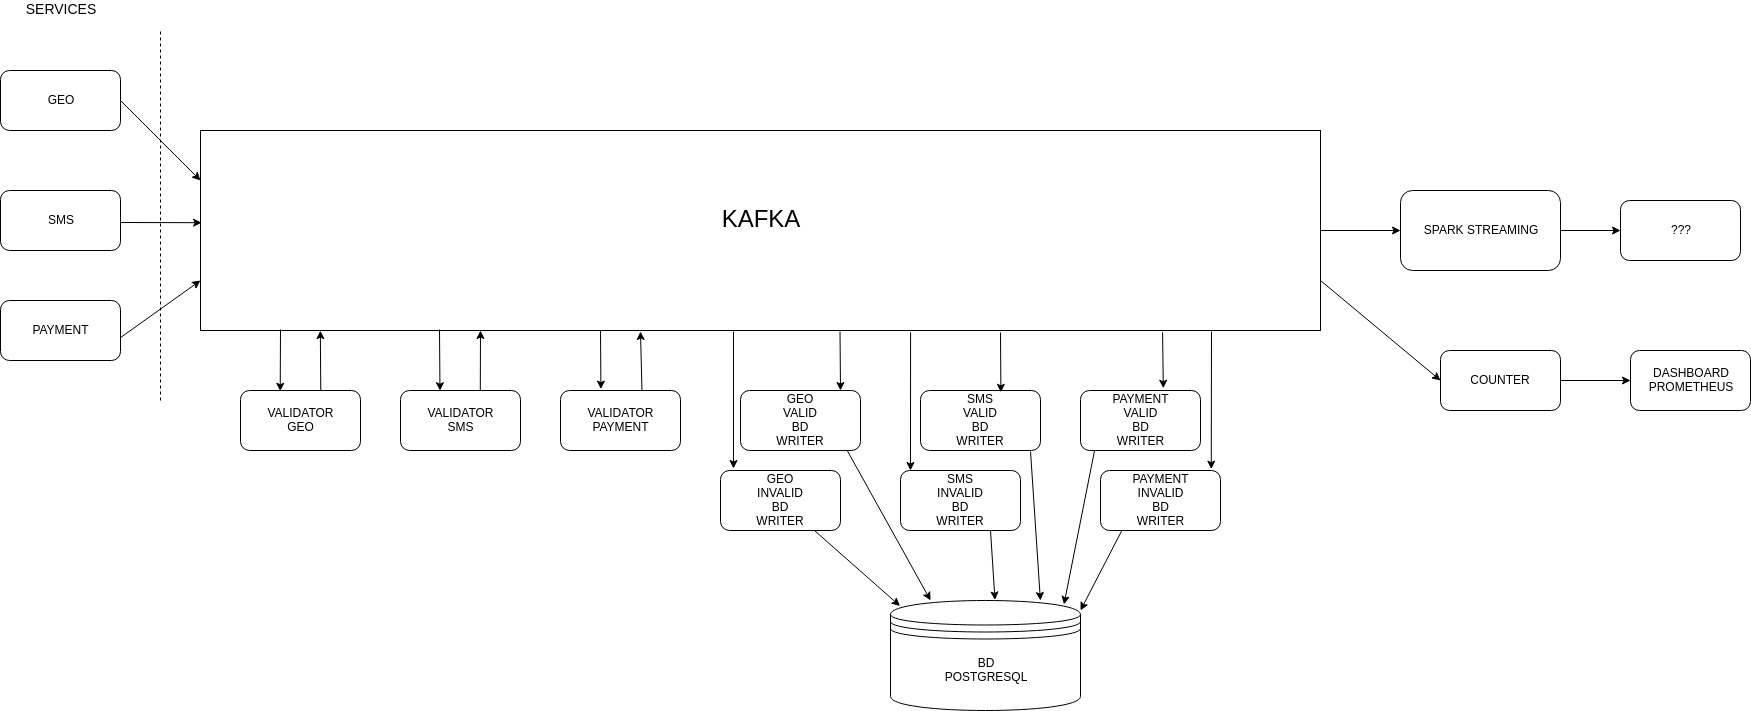
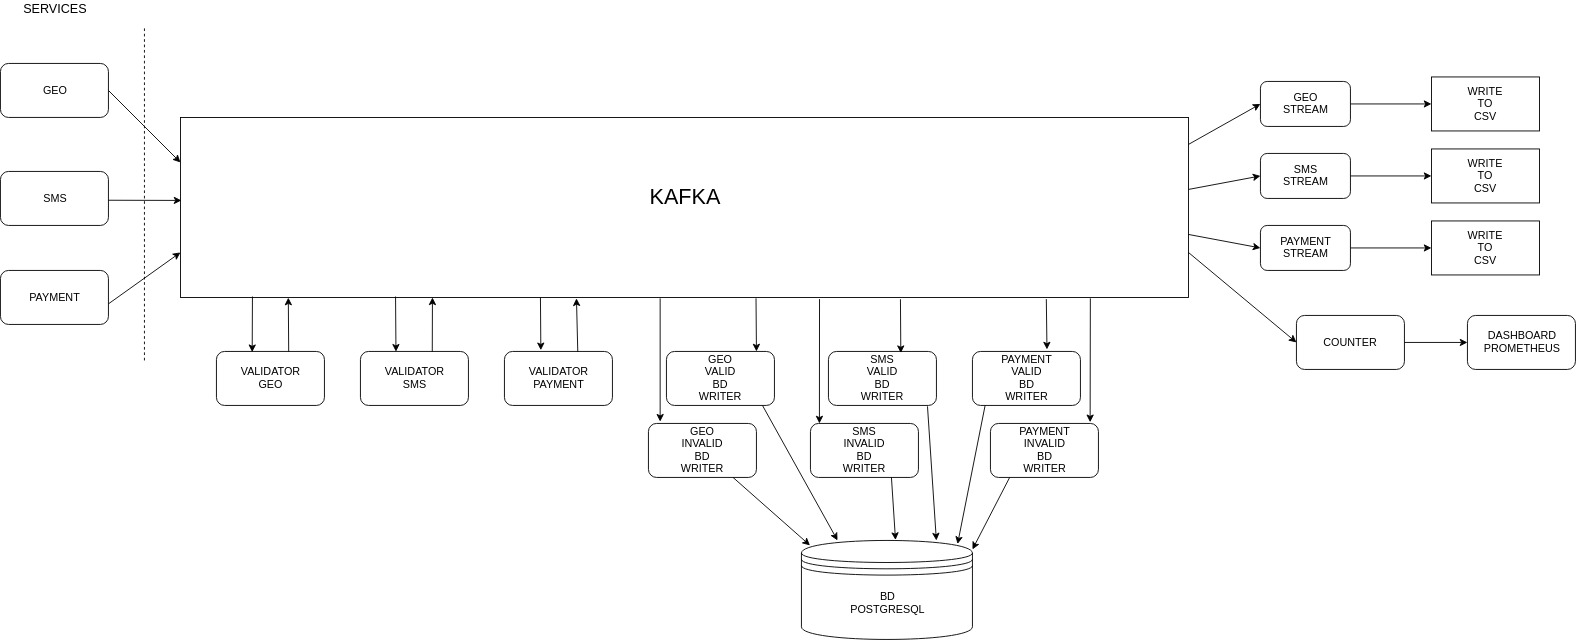
# 23 commit

diff --git a/README.md b/README.md
@@ -21,3 +21,11 @@ Validator-payment проверяет корректность данных по 
 
 Данные по валидным топикам считываем спарк стримингом.
 
+Есть 3 стриминговых приложения, которые считывают данные по трём валидным сервисам.
+Полученные агрегаты записываются в файлы формата CSV.
+
+## Запуск проекта
+На сервере должны стоять: java, mvn, sbt, так же в домашнем каталоге должен быть spark-2.4.4-bin-hadoop2.7.
+Деплой проекта осуществляется с помощью скрипта: clean_and_package_all_services.sh
+Запуск всех сервисов с помощью скрипта: run_all_services.sh
+Остановка всех сервисов с помощью скрипта: stop_all_services.sh
